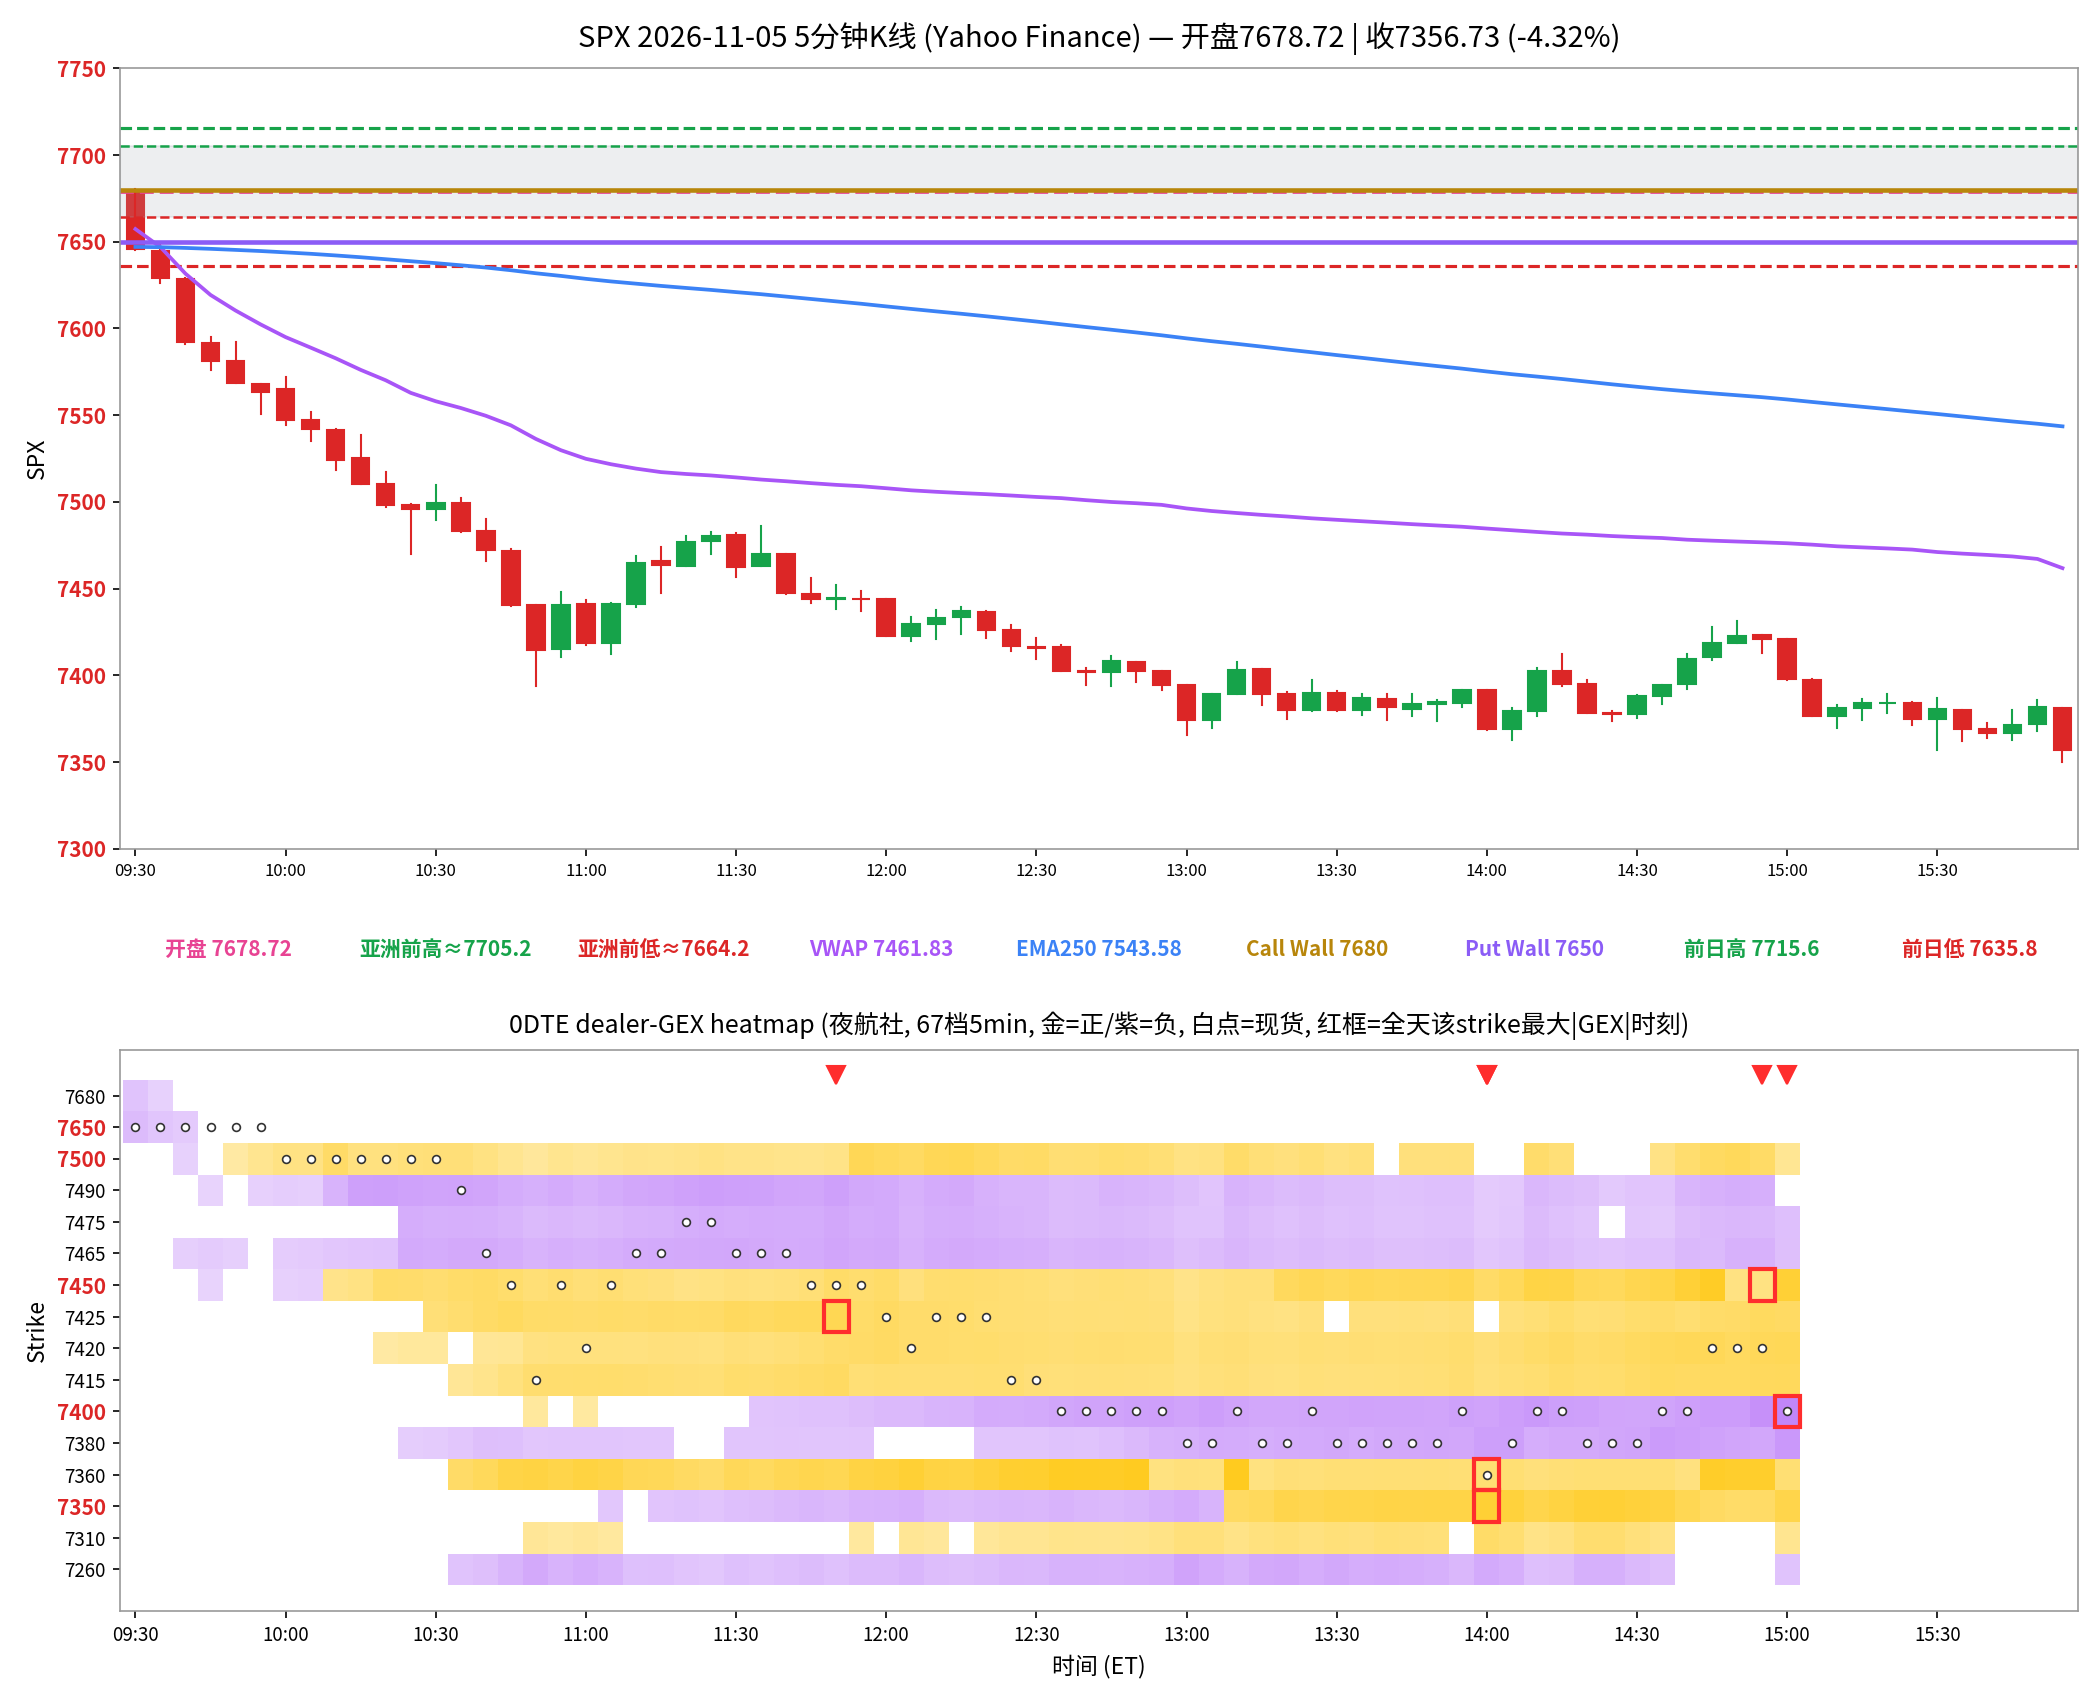
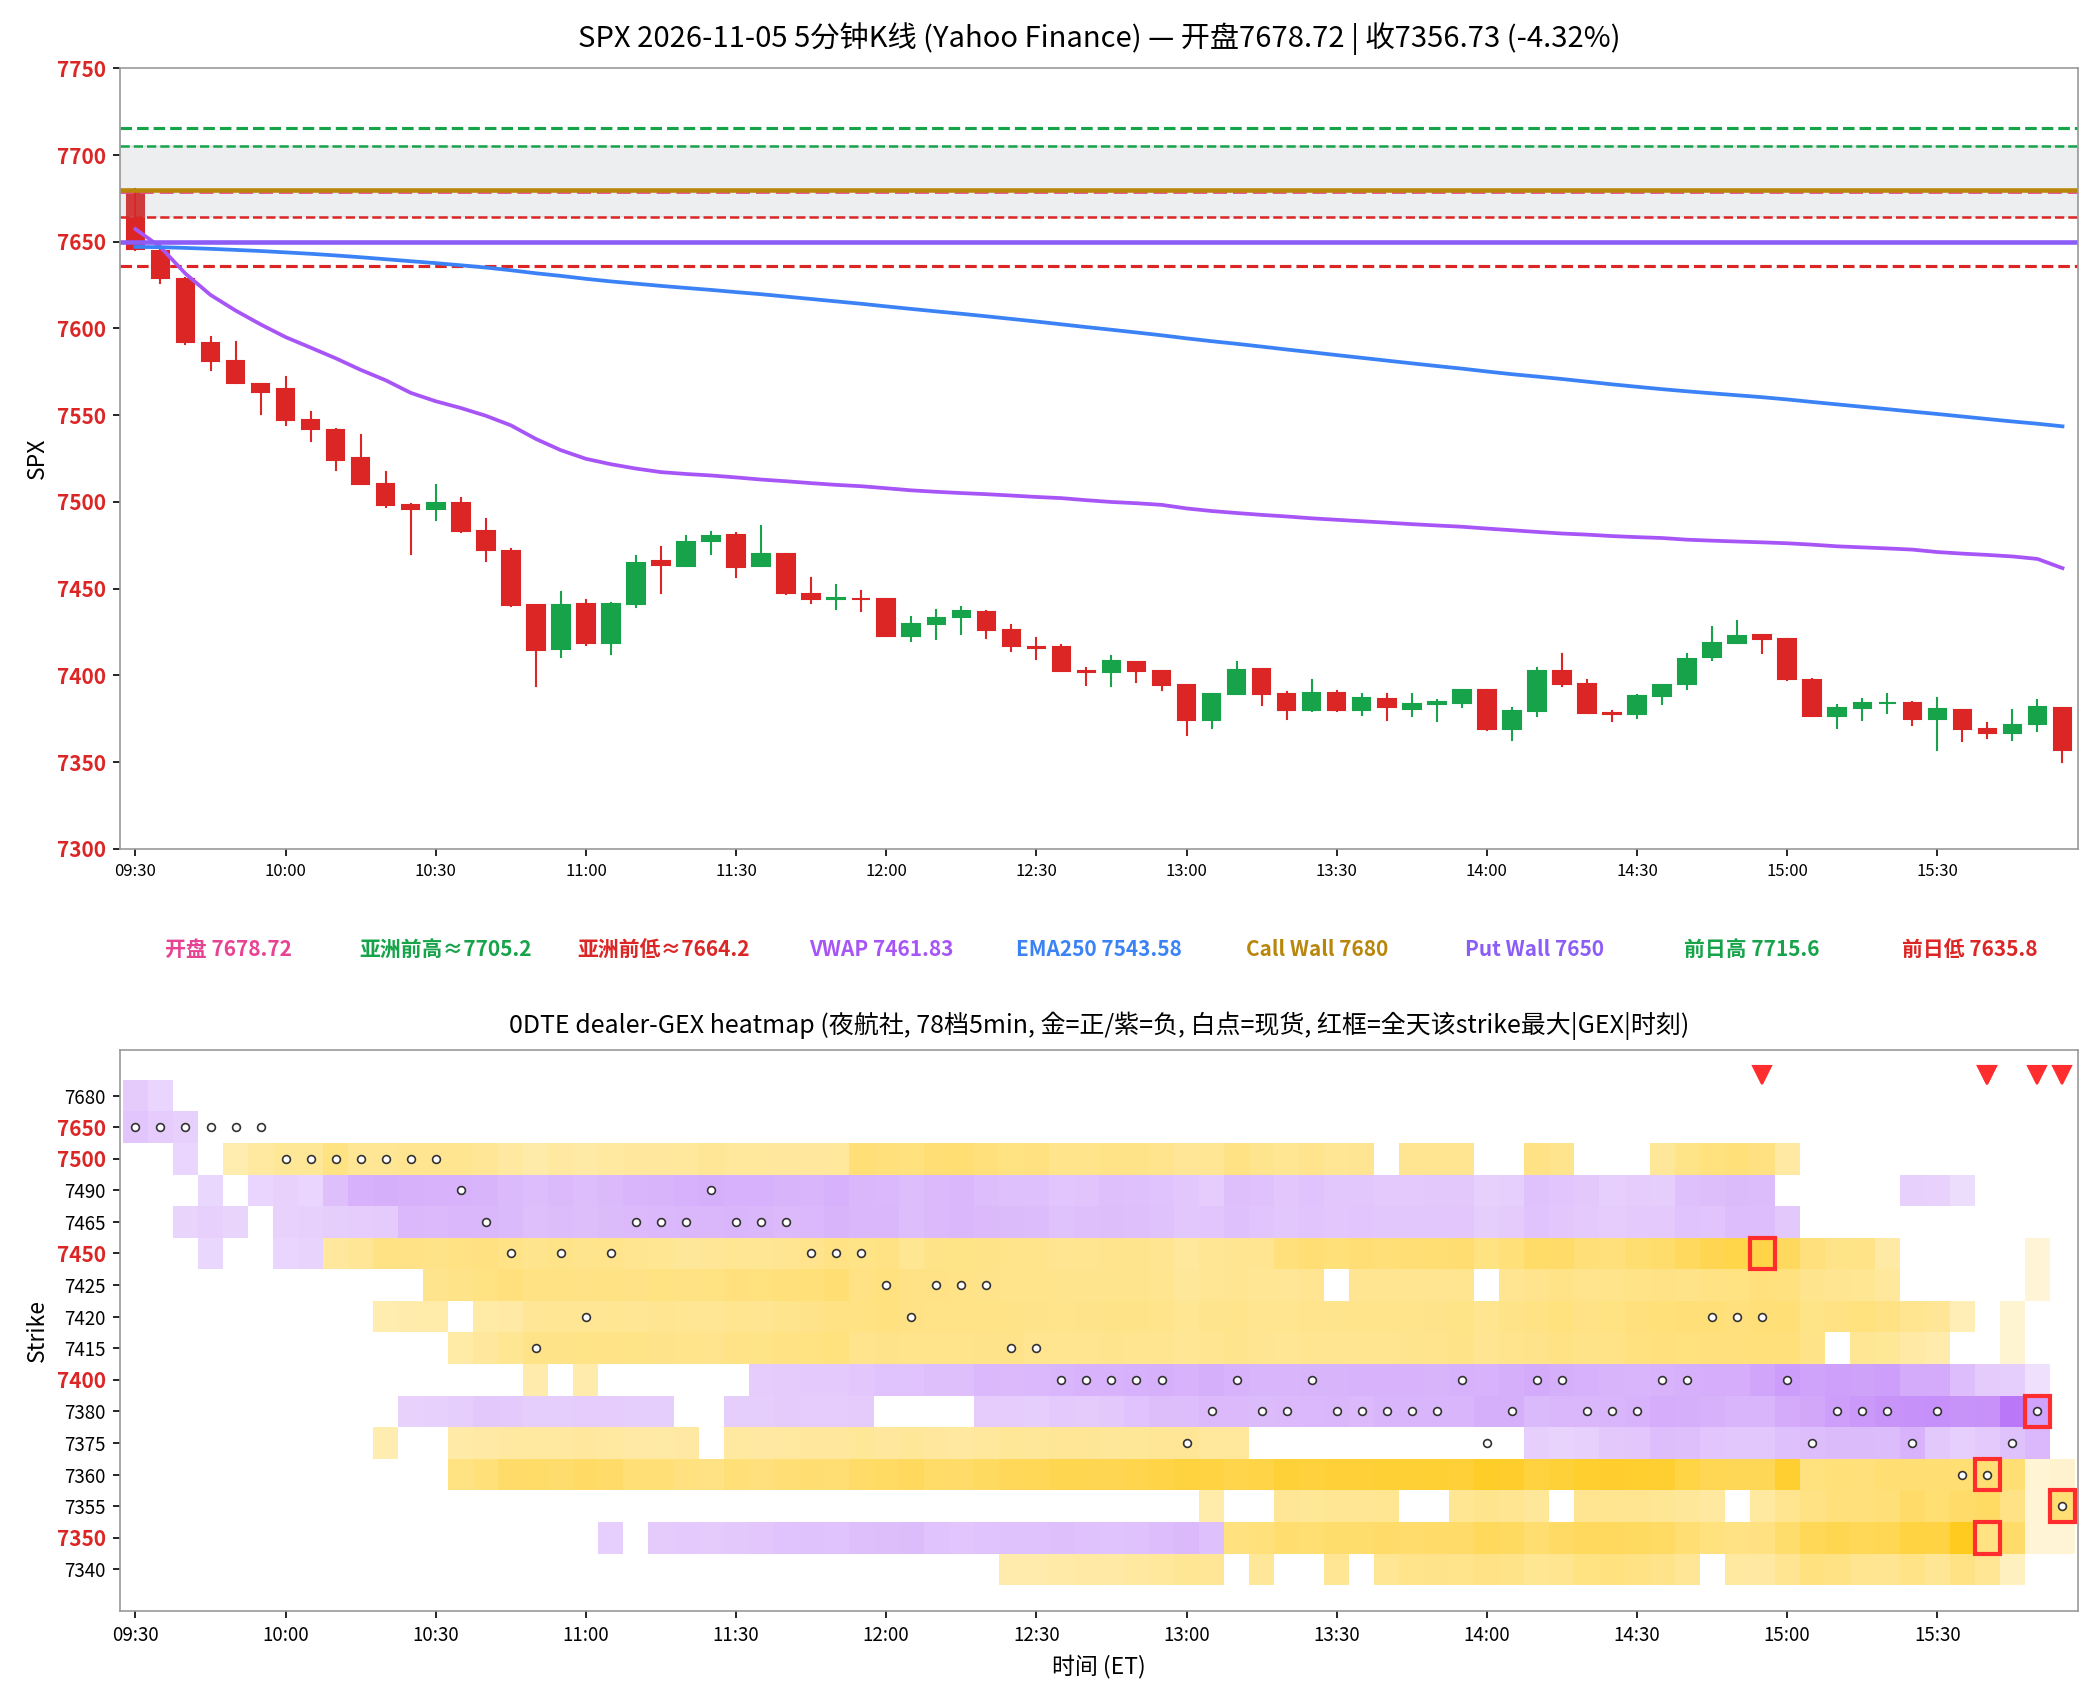
spx heatmap backfill 2026-11-05 (67->78 frames)

diff --git a/spx-intraday/all.html b/spx-intraday/all.html
@@ -152,43 +152,43 @@
 </section>
 <section aria-label="K线与heatmap">
 <div class="section-head"><h2>5 分钟 K 线 × 0DTE heatmap</h2><div class="source">
-<p>0DTE，夜航社 67 档 5 分钟快照；白点为每档现货位置</p>
+<p>0DTE，夜航社 78 档 5 分钟快照；白点为每档现货位置</p>
 </div></div>
 <figure class="chart-shell"><img src="charts/spx_2026-11-05.png" alt="SPX 2026-11-05 5分钟K线与0DTE dealer-GEX heatmap" loading="lazy"></figure>
 <div class="gex-intro">
-<h3>heatmap解读（0DTE，夜航社 67 档 5 分钟快照）</h3>
+<h3>heatmap解读（0DTE，夜航社 78 档 5 分钟快照）</h3>
 <ul>
-<li>金色带在 7360(+2969M) / 7450(+1600M) / 7350(+1202M) / 7420(+1005M)</li>
-<li>紫色带在 7400(-1224M) / 7380(-794M) / 7390(-554M) / 7435(-382M)</li>
+<li>金色带在 7355(+13018M)</li>
+<li>尾盘无显著紫色带</li>
 <li>白点轨迹: 开 7678.72→高 7680.69→低 7350.35→收 7356.73（-4.32%）；收盘在 call wall 7680 下方，put wall 7650 下方</li>
-<li>尾盘节点变化: 前三节点迁移 [7300, 7350, 7360]→[7360, 7400, 7450]；7450 增厚 +109%（766M→1600M）；7400 减弱 -108%（-588M→-1224M）</li>
+<li>尾盘节点变化: 前三节点迁移 [7360, 7420, 7450]→[7350, 7355, 7360]；7355 增厚 +4162%（305M→13018M）；7360 减弱 -100%（1800M→5M）；7350 减弱 -100%（788M→1M）</li>
 </ul>
 </div>
 <div class="top5-wrap"><h3>全天最大节点 TOP5</h3><div class="top5">
 <article class="node">
-<span class="node-rank">① · 14:00</span>
+<span class="node-rank">① · 15:55</span>
+<strong>7355</strong>
+<span class="metric">+13018.4M</span>
+</article>
+<article class="node">
+<span class="node-rank">② · 15:40</span>
 <strong>7360</strong>
-<span class="metric">+3328.5M</span>
-</article>
-<article class="node">
-<span class="node-rank">② · 14:55</span>
-<strong>7450</strong>
-<span class="metric">+2193.7M</span>
-</article>
-<article class="node">
-<span class="node-rank">③ · 14:00</span>
-<strong>7350</strong>
-<span class="metric">+1622.7M</span>
+<span class="metric">+12804.9M</span>
 </article>
 <article class="node purple">
-<span class="node-rank">④ · 15:00</span>
-<strong>7400</strong>
-<span class="metric">-1224.5M</span>
+<span class="node-rank">③ · 15:50</span>
+<strong>7380</strong>
+<span class="metric">-10555.6M</span>
 </article>
 <article class="node">
-<span class="node-rank">⑤ · 11:50</span>
-<strong>7425</strong>
-<span class="metric">+1071.7M</span>
+<span class="node-rank">④ · 15:40</span>
+<strong>7350</strong>
+<span class="metric">+3767.5M</span>
+</article>
+<article class="node">
+<span class="node-rank">⑤ · 14:55</span>
+<strong>7450</strong>
+<span class="metric">+2193.7M</span>
 </article>
 </div></div>
 <div class="method"><p>亮度口径：p99 截断；红框 = 全天该 strike 最大 |GEX| 时刻。</p></div>
@@ -459,7 +459,7 @@
 <div class="summary-list">
 <article class="summary-item"><p>①开盘 7678.72，相对 call wall 7680 位置：墙下；put wall 7650。</p></article>
 <article class="summary-item"><p>②白点轨迹: 开 7678.72→高 7680.69→低 7350.35→收 7356.73（-4.32%）；收盘在 call wall 7680 下方，put wall 7650 下方</p></article>
-<article class="summary-item"><p>③尾盘节点变化: 前三节点迁移 [7300, 7350, 7360]→[7360, 7400, 7450]；7450 增厚 +109%（766M→1600M）；7400 减弱 -108%（-588M→-1224M）</p></article>
+<article class="summary-item"><p>③尾盘节点变化: 前三节点迁移 [7360, 7420, 7450]→[7350, 7355, 7360]；7355 增厚 +4162%（305M→13018M）；7360 减弱 -100%（1800M→5M）；7350 减弱 -100%（788M→1M）</p></article>
 <article class="summary-item"><p>④flow 印证：中性（bull 40.47M / bear 69.5M）；最大簇 7400P 6.92M（ATM，spot≈7410.1；ask 4.26M / bid 2.66M / mid 0.0M）。</p></article>
 <article class="summary-item"><p>⑤收盘 7356.73（-4.32%），VWAP 7461.83，EMA250 7543.58；非事件日</p></article>
 </div></section>

diff --git a/spx-intraday/2026-11-05.html b/spx-intraday/2026-11-05.html
@@ -69,43 +69,43 @@
 </section>
 <section aria-label="K线与heatmap">
 <div class="section-head"><h2>5 分钟 K 线 × 0DTE heatmap</h2><div class="source">
-<p>0DTE，夜航社 67 档 5 分钟快照；白点为每档现货位置</p>
+<p>0DTE，夜航社 78 档 5 分钟快照；白点为每档现货位置</p>
 </div></div>
 <figure class="chart-shell"><img src="charts/spx_2026-11-05.png" alt="SPX 2026-11-05 5分钟K线与0DTE dealer-GEX heatmap" loading="lazy"></figure>
 <div class="gex-intro">
-<h3>heatmap解读（0DTE，夜航社 67 档 5 分钟快照）</h3>
+<h3>heatmap解读（0DTE，夜航社 78 档 5 分钟快照）</h3>
 <ul>
-<li>金色带在 7360(+2969M) / 7450(+1600M) / 7350(+1202M) / 7420(+1005M)</li>
-<li>紫色带在 7400(-1224M) / 7380(-794M) / 7390(-554M) / 7435(-382M)</li>
+<li>金色带在 7355(+13018M)</li>
+<li>尾盘无显著紫色带</li>
 <li>白点轨迹: 开 7678.72→高 7680.69→低 7350.35→收 7356.73（-4.32%）；收盘在 call wall 7680 下方，put wall 7650 下方</li>
-<li>尾盘节点变化: 前三节点迁移 [7300, 7350, 7360]→[7360, 7400, 7450]；7450 增厚 +109%（766M→1600M）；7400 减弱 -108%（-588M→-1224M）</li>
+<li>尾盘节点变化: 前三节点迁移 [7360, 7420, 7450]→[7350, 7355, 7360]；7355 增厚 +4162%（305M→13018M）；7360 减弱 -100%（1800M→5M）；7350 减弱 -100%（788M→1M）</li>
 </ul>
 </div>
 <div class="top5-wrap"><h3>全天最大节点 TOP5</h3><div class="top5">
 <article class="node">
-<span class="node-rank">① · 14:00</span>
+<span class="node-rank">① · 15:55</span>
+<strong>7355</strong>
+<span class="metric">+13018.4M</span>
+</article>
+<article class="node">
+<span class="node-rank">② · 15:40</span>
 <strong>7360</strong>
-<span class="metric">+3328.5M</span>
-</article>
-<article class="node">
-<span class="node-rank">② · 14:55</span>
-<strong>7450</strong>
-<span class="metric">+2193.7M</span>
-</article>
-<article class="node">
-<span class="node-rank">③ · 14:00</span>
-<strong>7350</strong>
-<span class="metric">+1622.7M</span>
+<span class="metric">+12804.9M</span>
 </article>
 <article class="node purple">
-<span class="node-rank">④ · 15:00</span>
-<strong>7400</strong>
-<span class="metric">-1224.5M</span>
+<span class="node-rank">③ · 15:50</span>
+<strong>7380</strong>
+<span class="metric">-10555.6M</span>
 </article>
 <article class="node">
-<span class="node-rank">⑤ · 11:50</span>
-<strong>7425</strong>
-<span class="metric">+1071.7M</span>
+<span class="node-rank">④ · 15:40</span>
+<strong>7350</strong>
+<span class="metric">+3767.5M</span>
+</article>
+<article class="node">
+<span class="node-rank">⑤ · 14:55</span>
+<strong>7450</strong>
+<span class="metric">+2193.7M</span>
 </article>
 </div></div>
 <div class="method"><p>亮度口径：p99 截断；红框 = 全天该 strike 最大 |GEX| 时刻。</p></div>
@@ -376,7 +376,7 @@
 <div class="summary-list">
 <article class="summary-item"><p>①开盘 7678.72，相对 call wall 7680 位置：墙下；put wall 7650。</p></article>
 <article class="summary-item"><p>②白点轨迹: 开 7678.72→高 7680.69→低 7350.35→收 7356.73（-4.32%）；收盘在 call wall 7680 下方，put wall 7650 下方</p></article>
-<article class="summary-item"><p>③尾盘节点变化: 前三节点迁移 [7300, 7350, 7360]→[7360, 7400, 7450]；7450 增厚 +109%（766M→1600M）；7400 减弱 -108%（-588M→-1224M）</p></article>
+<article class="summary-item"><p>③尾盘节点变化: 前三节点迁移 [7360, 7420, 7450]→[7350, 7355, 7360]；7355 增厚 +4162%（305M→13018M）；7360 减弱 -100%（1800M→5M）；7350 减弱 -100%（788M→1M）</p></article>
 <article class="summary-item"><p>④flow 印证：中性（bull 40.47M / bear 69.5M）；最大簇 7400P 6.92M（ATM，spot≈7410.1；ask 4.26M / bid 2.66M / mid 0.0M）。</p></article>
 <article class="summary-item"><p>⑤收盘 7356.73（-4.32%），VWAP 7461.83，EMA250 7543.58；非事件日</p></article>
 </div></section>
